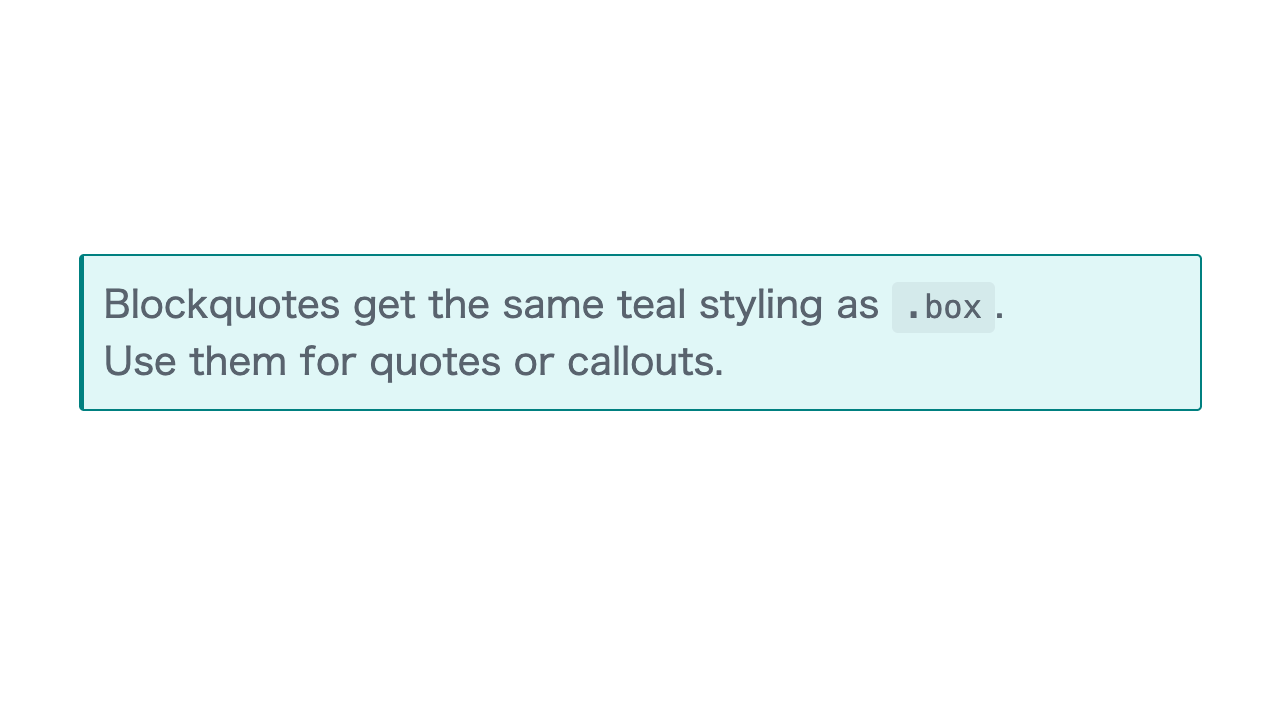
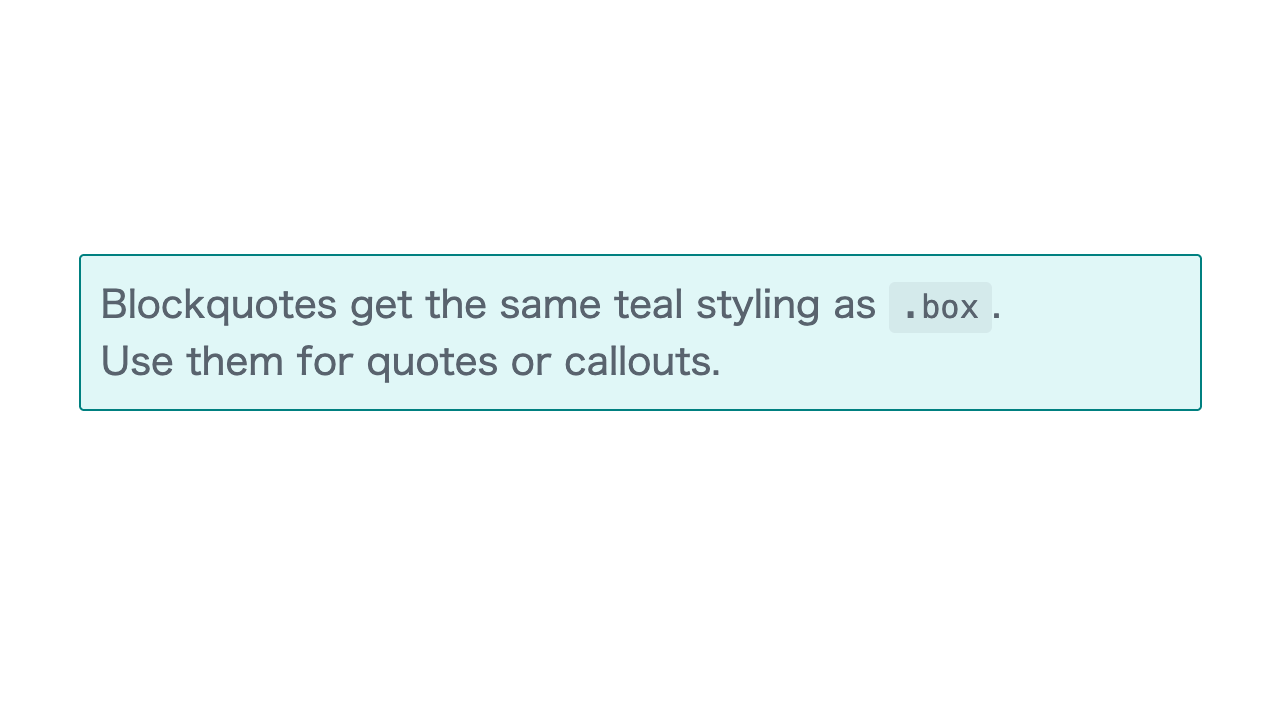
Remove left bar from box and blockquote styles
Unified all box styles to use consistent thin border on all sides,
removing the thick left bar from .box, .box-warning, and blockquote.

Changed region(s): [[0.0625, 0.3972, 0.6875, 0.5194], [0.7188, 0.3972, 0.7812, 0.4583]]

diff --git a/umino.css b/umino.css
@@ -43,7 +43,6 @@ h4 {
 .box {
   background-color: #E0F7F7;
   border: 2px solid #008080;
-  border-left: 5px solid #008080;
   padding: 20px;
   margin: 20px 0;
   border-radius: 5px;
@@ -60,7 +59,6 @@ h4 {
 .box-warning {
   background-color: #FFE6E6;
   border: 2px solid #FF4444;
-  border-left: 5px solid #FF4444;
   padding: 20px;
   margin: 20px 0;
   border-radius: 5px;
@@ -70,7 +68,6 @@ h4 {
 blockquote {
   background-color: #E0F7F7;
   border: 2px solid #008080;
-  border-left: 5px solid #008080;
   padding: 20px;
   margin: 20px 0;
   border-radius: 5px;
